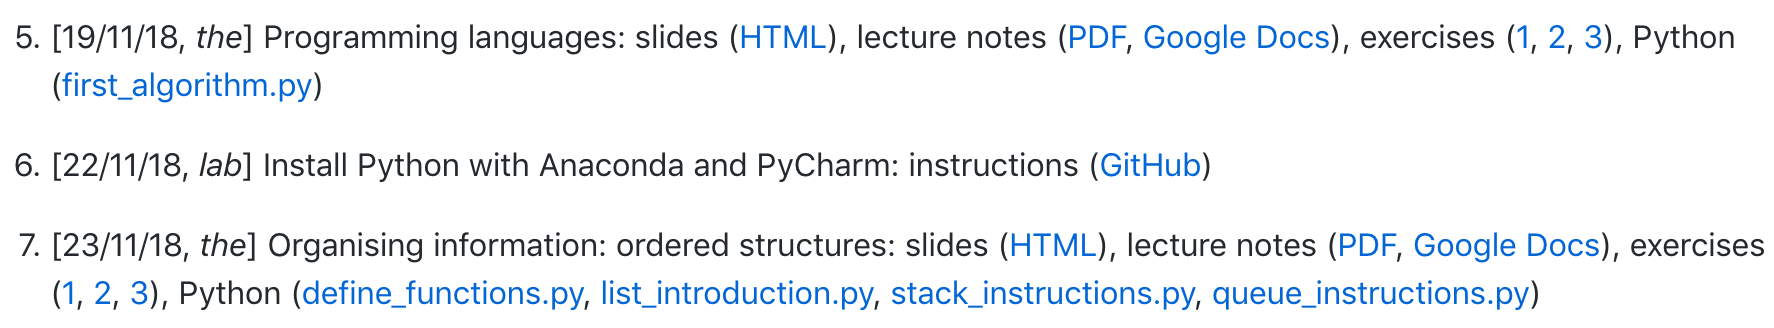
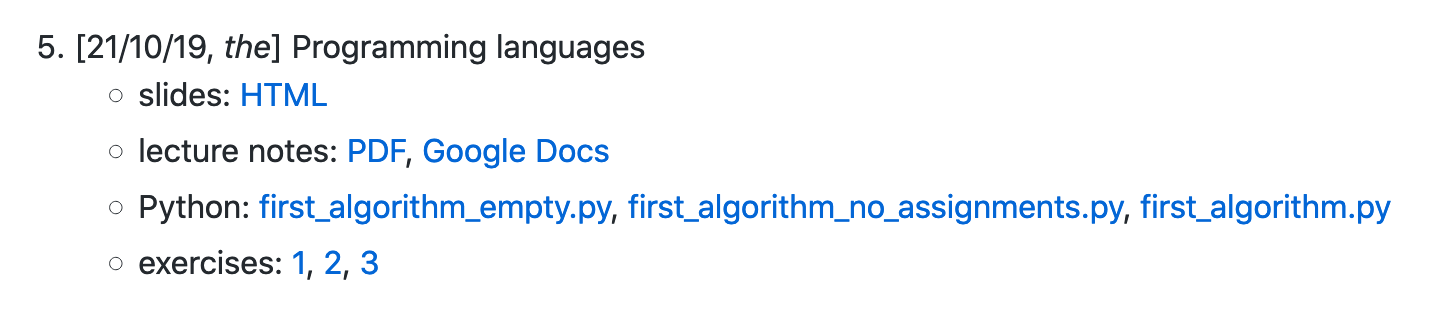
new slides

Changed region(s): [[0.0, 0.6058, 0.9986, 0.9519], [0.0, 0.0577, 0.9986, 0.3462], [0.0, 0.4327, 0.6865, 0.5481]]

diff --git a/docs/slides/05 - Organising information - ordered structures.html b/docs/slides/05 - Organising information - ordered structures.html
@@ -1,0 +1,288 @@
+<!doctype html>
+<html>
+	<head>
+		<meta charset="utf-8">
+		<meta name="viewport" content="width=device-width, initial-scale=1.0, maximum-scale=1.0, user-scalable=no">
+
+		<title>Organising information: ordered structures</title>
+
+		<link rel="stylesheet" href="css/reveal.css">
+		<link rel="stylesheet" href="css/theme/simple.css">
+		<link rel="stylesheet" href="css/ctc.css">
+
+		<!-- Theme used for syntax highlighting of code -->
+		<link rel="stylesheet" href="lib/css/zenburn.css">
+		<link rel="stylesheet" href="css/addon.css"></link>
+		<link rel="stylesheet" href="css/font-awesome.min.css"></link>
+		<link rel="stylesheet" href="css/academicons.min.css"></link>
+
+		<!-- Printing and PDF exports -->
+		<script>
+			var link = document.createElement( 'link' );
+			link.rel = 'stylesheet';
+			link.type = 'text/css';
+			link.href = window.location.search.match( /print-pdf/gi ) ? 'css/print/pdf.css' : 'css/print/paper.css';
+			document.getElementsByTagName( 'head' )[0].appendChild( link );
+		</script>
+	</head>
+	<body>
+		<div class="reveal">
+			<div class="slides">
+				<section id="title" class="title_slide" role="doc-cover">
+					<h1 class="bbbbt">Organising information: ordered structures</h1>
+					<div class="author">
+						<p><a href="https://www.unibo.it/sitoweb/silvio.peroni/en">Silvio Peroni</a></p>
+						<p class="contact">
+							<i class="fa fa-envelope" aria-hidden="true"></i> <a href="mailto:silvio.peroni@unibo.it">silvio.peroni@unibo.it</a>
+							<i class="ai ai-orcid" aria-hidden="true"></i> <a href="https://orcid.org/0000-0003-0530-4305">0000-0003-0530-4305</a>
+							<i class="fa fa-twitter" aria-hidden="true"></i> <a href="https://twitter.com/essepuntato">@essepuntato</a>
+						</p>
+						<p class="sst mtl"><a href="https://www.unibo.it/en/teaching/course-unit-catalogue/course-unit/2019/424624">Computational Thinking and Programming (A.Y. 2019/2020)</a></p>
+						<p class="ssst"><a href="https://corsi.unibo.it/2cycle/DigitalHumanitiesKnowledge">Second Cycle Degree in Digital Humanities and Digital Knowledge</a></p>
+						<p class="ssst"><a href="http://www.unibo.it/en">Alma Mater Studiorum - Università di Bologna</a></p>
+						<p class="license"><a rel="license" href="http://creativecommons.org/licenses/by/4.0/"></a> <a rel="license" href="http://creativecommons.org/licenses/by/4.0/">Creative Commons Attribution 4.0 International License</a></p>
+					</div>
+				</section>
+				
+				<section>
+					<h2>Communication 1</h2>
+					<p>The <a href="https://github.com/comp-think/2018-2019/">GitHub repository of the course</a> now includes also the links to the laboratory lectures, that will be presented by <a href="https://twitter.com/emmedaquino">Marilena Daquino</a></p>
+				</section>
+
+                <section>
+					<h2>Communication 2</h2>
+                    <p>Starting from the previous lecture, Python files to the main listings included in each lecture notes are also published</p>
+                    <p>They are linked in the lecture notes and in the GitHub repository of the course</p>
+                    <p class="tc"><img src="img/python-links.png" /></p>
+				</section>
+
+				<section>
+                    <h2>Communication 3</h2>
+                    <p>Monday 25 November 2019 there will be the evaluation of the course</p>
+                    <p>Please do not miss it!</p>
+					<p>Please, do it carefully and honestly, since it is one of the most important inputs I will have to understand what can be improved in the next year course</p>
+                </section>
+
+				<section>
+                    <h2>Communication 4</h2>
+					<p><a href="https://github.com/ValentinaPasqual">Valentina Pasqual</a> and <a href="https://github.com/FabioMariani">Fabio Mariani</a> (added to the Telegram group a few days ago) are available for helping you in the issues that may arise during the course (e.g. solving exercises)
+						<p> When: please see the "Exercise" hours in the <a href="https://corsi.unibo.it/2cycle/DigitalHumanitiesKnowledge/timetable/cad0b64e2c054d77a78ab920c507b6d4/@@download/file/DHDK-timetable2019-20%20def.pdf">DHDK timetable</a></p>
+					<p>Please use Telegram for coordination (e.g. topic to address and when)</p>
+                </section>
+				
+				<section>
+					<h2>Any question about the previous lecture?</h2>
+				</section>
+				
+				<section>
+					<h2>Historic hero: Donald Knuth</h2>
+					<img class="wm fr mlm" src="img/knuth.jpg" />
+					<p>Donald Knuth is a Computer Scientist</p>
+					<p class="fragment">Main contributions: theoretical and practical development of the analysis of the computational complexity of algorithms<span class="fragment">, The Art of Computer Programming series of monographs</span><span class="fragment">, TeX typesetting system for writing academic documents</span></p>
+					<p class="fragment">The Art of Computer Programming is an ongoing work (3 volumes and an half out of 7 have been published so far)</p>
+				</section>
+
+				<section>
+					<h2>Preliminaries: Python functions</h2>
+					<p>Definition of functions:<br /><code>def &lt;func_name>(&lt;parameter_1>, ...)</code></p>
+					<p class="fragment">It is the mechanism for implementing functions in Python, i.e. a mechanism for listing a sequence of instructions under a particular name</p>
+					<ul>
+						<li class="fragment"><p><em>Built-in</em> functions: made available by the programming language itself, e.g. <code>len()</code> or <code>list()</code></p></li>
+						<li class="fragment"><p><em>User-defined</em> functions: written by a user of the language for addressing some specific requirements or tasks that are not addressable by means of one built-in function directly, like the algorithm implemented in the previous lecture</p></li>
+					</ul>
+				</section>
+
+				<section>
+					<h2>Preliminaries: executions</h2>
+					<pre><code class="python">def add_one(n):
+    return n + 1
+
+result = add_one(41)
+print(result)</code></pre>
+					<p class="fragment"><code>print(&lt;object_1>, &lt;object_2>, ...)</code> allows one to print on screen one or more values (that can be referred by a variable)</p>
+				</section>
+
+				<section>
+					<h2>Preliminaries: packages</h2>
+					<p>Module: a Python file (extension .py) that contains the definition of variables, functions, and even runnable code</p>
+					<p class="fragment">Package: a mechanism to expose one or more Python modules, functions, variables</p>
+                    <pre class="fragment"><code class="python">from &lt;package> import &lt;module or function or variable></code></pre>
+                    <div class="fragment">
+                        <p>Example:</p>
+                        <pre><code class="python">from collections import deque</code></pre>
+                    </div>
+				</section>
+				
+				<section>
+					<h2>Data structures</h2>
+					<p>The first volume of Knuth's series of books is entirely dedicated to a comprehensive introduction of all the basic data structures</p>
+					<p class="fragment">A <em>data structure</em> is a way in which we can <span class="fragment highlight-red">organise</span> the information to process and returned by a computer, so as it can be accessed and modified in an efficient and computational manner</p>
+					<p class="fragment">Broadly speaking, it is a sort of bucket where we can place some information, that provides some methods to add and retrieve pieces of such information</p>
+				</section>				
+				
+				<section>
+					<h2>Order and repeatability</h2>
+					<p>Among the simplest data structures, there are those ones that organise their item in a specific <span class="fragment highlight-red">order</span> and allow the <span class="fragment highlight-red">repeatability</span> of the values they contain</p>
+					<p class="fragment">Order: the sequence in which the items are added to these data structures matters</p>
+					<p class="fragment">Repeatability: the same value can appear twice or more times in the same data structure</p>
+				</section>
+				
+				<section>
+					<h2>List: example</h2>
+					<p class="tc"><img class="hl" src="img/list.png" /></p>
+				</section>
+				
+				<section>
+					<h2>List: definition</h2>
+					<p>A list is a <span class="fragment highlight-red">countable</span> sequence of <span class="fragment highlight-red">ordered</span> and <span class="fragment highlight-red">repeatable</span> items</p>
+					<p class="fragment">Countable: it is possible to know the length of the list (i.e. how many items it contains) – in Python, we can use the function <code>len(&lt;countable_object>)</code></p>
+					<p class="fragment">Ordered: the items are placed in the list in a specific order, which is preserved</p>
+					<p class="fragment">Repeatable: the items may appear more than one time in the list</p>
+				</section>
+				
+				<section>
+					<h2>List: methods</h2>
+					<p>Create a new list: <code>list()</code></p>
+					<p class="fragment">Add new item: <code>&lt;list>.append(&lt;item>)</code></p>
+					<p class="fragment">Remove item: <code>&lt;list>.remove(&lt;item>)</code></p>
+					<p class="fragment">Add items from another list: <code>&lt;list>.extend(&lt;another_list>)</code></p>
+				</section>
+				
+				<section>
+					<h2>Use methods on list</h2>
+					<pre><span class="fragment" data-fragment-index="1">my_first_list = list()</span>
+<span class="fragment" data-fragment-index="2">my_first_list.append(34)</span>
+<span class="fragment" data-fragment-index="3">my_first_list.append(15)</span>
+<span class="fragment" data-fragment-index="4">my_first_list.append("Silvio")</span>
+<span class="fragment" data-fragment-index="5">my_first_list.remove(34)</span>
+<span class="fragment" data-fragment-index="6">my_first_list.extend(my_first_list)</span></pre>
+					<p>
+						<code class="fragment" data-fragment-index="1">my_first_list = </code>
+						<span class="fragment fade-out" data-fragment-index="5"><span class="cell fragment" data-fragment-index="2">34</span></span>
+						<span class="cell fragment" data-fragment-index="3">15</span>
+						<span class="cell fragment" data-fragment-index="4">"Silvio"</span>
+						<span class="cell fragment" data-fragment-index="6">15</span>
+						<span class="cell fragment" data-fragment-index="6">"Silvio"</span>
+					</p>
+				</section>
+				
+				<section>
+					<h2>Stack: example</h2>
+					<p class="tc"><img class="hl" src="img/stack.png" /></p>
+				</section>
+				
+				<section>
+					<h2>Stack: definition</h2>
+					<p>A stack is a is a kind of list seen from a particular perspective, i.e. from <span class="fragment highlight-red">bottom to top</span>, and with a specific set of operations</p>
+					<p class="fragment">The items follow a <em class="fragment highlight-red">last in first out</em> strategy (LIFO) for addition and removal</p>
+					<p class="fragment">The last item inserted in the structure is placed in the top of the stack and, thus, it is also the first one that will be removed when requested</p>
+					<p class="fragment">For removing the item in the middle of the stack one has to remove all the items that have been added <span class="fragment highlight-red">after</span> such middle item</p>
+				</section>
+				
+				<section>
+					<h2>Stack: methods</h2>
+					<p>Create a new stack: <code>deque()</code></p>
+					<p class="fragment">Add new item: <code>&lt;stack>.append(&lt;item>)</code></p>
+					<p class="fragment">Remove (and return) latest item: <code>&lt;stack>.pop()</code></p>
+					<p class="fragment">Add items from another stack: <code>&lt;stack>.extend(&lt;another_stack>)</code></p>
+				</section>
+				
+				<section>
+					<h2>Use methods on stack</h2>
+					<pre><span class="fragment" data-fragment-index="1">my_first_stack = deque()</span>
+<span class="fragment" data-fragment-index="2">my_first_stack.append(34)</span>
+<span class="fragment" data-fragment-index="3">my_first_stack.append(15)</span>
+<span class="fragment" data-fragment-index="4">my_first_stack.extend(my_first_stack)</span>
+<span class="fragment" data-fragment-index="5">my_first_stack.append("Silvio")</span>
+<span class="fragment" data-fragment-index="6">my_first_stack.pop()</span>
+</pre>
+					<div>
+						<p class="fl"><code class="fragment" data-fragment-index="1">my_first_stack =</code></p>	
+						<div style="margin-left:40%">
+							<div><span class="fragment fade-out" data-fragment-index="6"><span class="cell fragment" data-fragment-index="5">"Silvio"</span></span></div>
+							<div><span class="cell fragment" data-fragment-index="4">15</span></div>
+							<div><span class="cell fragment" data-fragment-index="4">34</span></div>
+							<div><span class="cell fragment" data-fragment-index="3">15</span></div>
+							<div><span class="cell fragment" data-fragment-index="2">34</span></div>
+						</div>
+					</div>
+				</section>
+				
+				<section>
+					<h2>Queue: example</h2>
+					<p class="tc"><img class="hl" src="img/queue.png" /></p>
+				</section>
+				
+				<section>
+					<h2>Queue: definition</h2>
+					<p>A queue is a is a kind of list seen from a particular perspective, i.e. from <span class="fragment highlight-red">left to right</span>, and with a specific set of operations</p>
+					<p class="fragment">The items follow a <em class="fragment highlight-red">first in first out</em> strategy (FIFO) for addition and removal</p>
+					<p class="fragment">The first item is placed in the left-most part of the queue and, thus, it is also the first one that will be removed when requested</p>
+					<p class="fragment">For removing the item in the middle of the queue one has to remove all the items that have been added <span class="fragment highlight-red">before</span> such middle item</p>
+				</section>
+				
+				<section>
+					<h2>Queue: methods</h2>
+					<p>Create a new queue: <code>deque()</code></p>
+					<p class="fragment">Add new item: <code>&lt;queue>.append(&lt;item>)</code></p>
+					<p class="fragment">Remove (and return) first item: <code>&lt;queue>.leftpop()</code></p>
+					<p class="fragment">Add items from another queue: <code>&lt;queue>.extend(&lt;another_queue>)</code></p>
+				</section>
+				
+				<section>
+					<h2>Use methods on queue</h2>
+					<pre><span class="fragment" data-fragment-index="1">my_first_queue = deque()</span>
+<span class="fragment" data-fragment-index="2">my_first_queue.append(34)</span>
+<span class="fragment" data-fragment-index="3">my_first_queue.append(15)</span>
+<span class="fragment" data-fragment-index="4">my_first_queue.append("Silvio")</span>
+<span class="fragment" data-fragment-index="5">my_first_queue.leftpop()</span>
+<span class="fragment" data-fragment-index="6">my_first_queue.extend(my_first_queue)</span></pre>
+					<p>
+						<code class="fragment" data-fragment-index="1">my_first_queue = </code>
+						<span class="fragment fade-out" data-fragment-index="5"><span class="cell fragment" data-fragment-index="2">34</span></span>
+						<span class="cell fragment" data-fragment-index="3">15</span>
+						<span class="cell fragment" data-fragment-index="4">"Silvio"</span>
+						<span class="cell fragment" data-fragment-index="6">15</span>
+						<span class="cell fragment" data-fragment-index="6">"Silvio"</span>
+					</p>
+				</section>
+				
+				<section class="title_slide">
+					<h2>
+						END
+						<span class="subtitle">Organising information: ordered structures</span>
+					</h2>
+					<div class="author">
+						<p><a href="https://www.unibo.it/sitoweb/silvio.peroni/en">Silvio Peroni</a></p>
+						<p class="contact">
+							<i class="fa fa-envelope" aria-hidden="true"></i> <a href="mailto:silvio.peroni@unibo.it">silvio.peroni@unibo.it</a>
+							<i class="ai ai-orcid" aria-hidden="true"></i> <a href="https://orcid.org/0000-0003-0530-4305">0000-0003-0530-4305</a>
+							<i class="fa fa-twitter" aria-hidden="true"></i> <a href="https://twitter.com/essepuntato">@essepuntato</a>
+						</p>
+						<p class="sst mtl"><a href="https://www.unibo.it/en/teaching/course-unit-catalogue/course-unit/2019/424624">Computational Thinking and Programming (A.Y. 2019/2020)</a></p>
+						<p class="ssst"><a href="https://corsi.unibo.it/2cycle/DigitalHumanitiesKnowledge">Second Cycle Degree in Digital Humanities and Digital Knowledge</a></p>
+						<p class="ssst"><a href="http://www.unibo.it/en">Alma Mater Studiorum - Università di Bologna</a></p>
+					</div>
+				</section>
+			</div>
+		</div>
+
+		<script src="lib/js/head.min.js"></script>
+		<script src="js/reveal.js"></script>
+
+		<script>
+			// More info https://github.com/hakimel/reveal.js#configuration
+			Reveal.initialize({
+				history: true,
+
+				// More info https://github.com/hakimel/reveal.js#dependencies
+				dependencies: [
+					{ src: 'plugin/markdown/marked.js' },
+					{ src: 'plugin/markdown/markdown.js' },
+					{ src: 'plugin/notes/notes.js', async: true },
+					{ src: 'plugin/highlight/highlight.js', async: true, callback: function() { hljs.initHighlightingOnLoad(); } }
+				]
+			});
+		</script>
+	</body>
+</html>

diff --git a/README.md b/README.md
@@ -40,14 +40,16 @@ This space contains all the material related to the [Computational Thinking and 
    * slides: [HTML](https://comp-think.github.io/2019-2020/slides/04%20-%20Programming%20languages.html)
    * lecture notes: [PDF](https://comp-think.github.io/book/04.pdf), [Google Docs](https://tinyurl.com/comp-think-04)
    * Python: [first_algorithm_empty.py](https://comp-think.github.io/python/first_algorithm_empty.py), [first_algorithm_no_assignments.py](https://comp-think.github.io/python/first_algorithm_no_assignments.py), [first_algorithm.py](https://comp-think.github.io/python/first_algorithm.py)
-   * exercises: [1](https://github.com/comp-think/2019-2020/issues/9), [2](https://github.com/comp-think/2019-2020/issues/10), [3](https://github.com/comp-think/2019-2020/issues/11)<hr />
+   * exercises: [1](https://github.com/comp-think/2019-2020/issues/9), [2](https://github.com/comp-think/2019-2020/issues/10), [3](https://github.com/comp-think/2019-2020/issues/11)
+   <hr />
 6. [23/10/19, *lab*] 1st Lesson
     * instructions: [GitHub](https://github.com/marilenadaquino/computational_thinking/blob/master/ay-2019-2020/installation.md)
     <hr />
 7. [28/10/19, *the*] Organising information: ordered structures
+   * slides: [HTML](https://comp-think.github.io/2019-2020/slides/05%20-%20Organising%20information%20-%20ordered%20structures.html)
    * lecture notes: [PDF](https://comp-think.github.io/book/05.pdf), [Google Docs](https://tinyurl.com/comp-think-05)
    * Python: [define_functions.py](https://comp-think.github.io/python/define_functions.py), [list_instructions.py](https://comp-think.github.io/python/list_instructions.py), [stack_instructions.py](https://comp-think.github.io/python/stack_instructions.py), [queue_instructions.py](https://comp-think.github.io/python/queue_instructions.py)
-
+   * exercises: [1](https://github.com/comp-think/2019-2020/issues/12), [2](https://github.com/comp-think/2019-2020/issues/13), [3](https://github.com/comp-think/2019-2020/issues/14)
 
 
 ### Schedule
